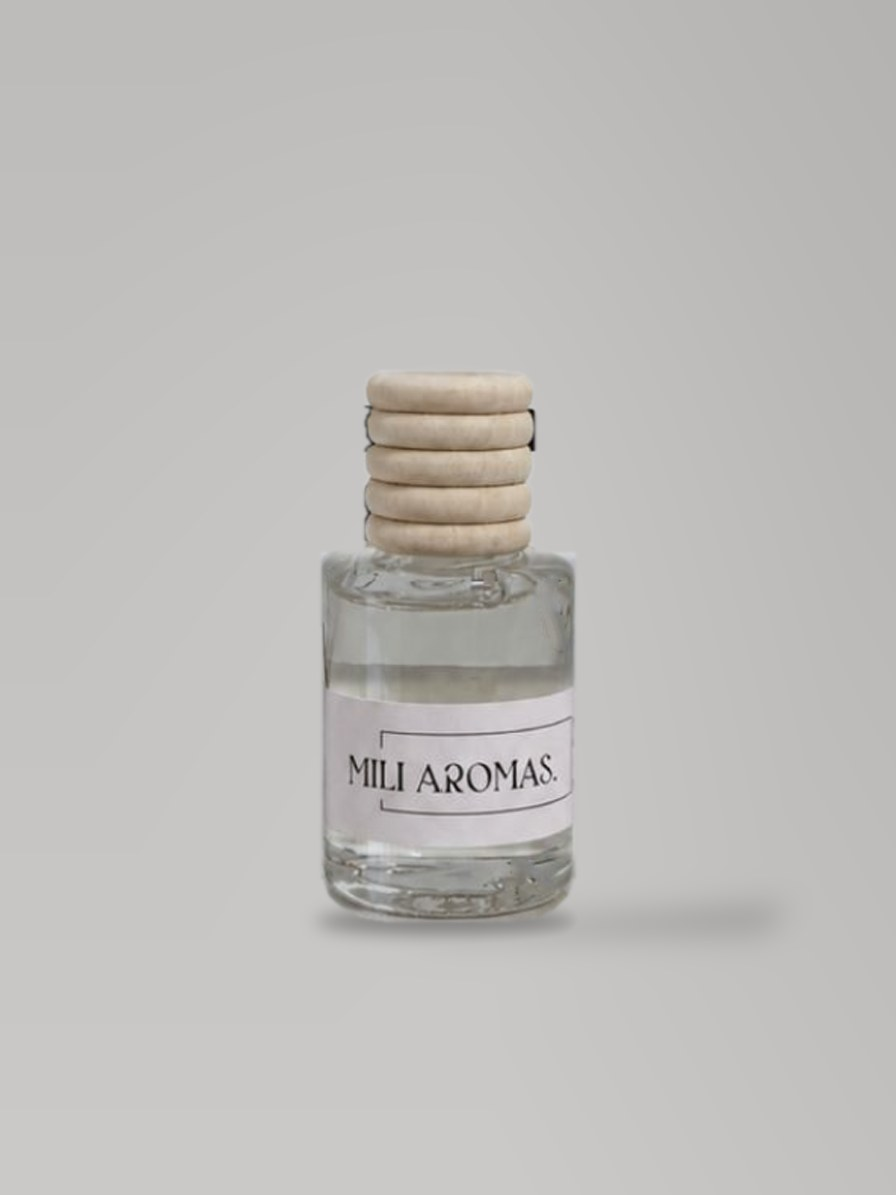
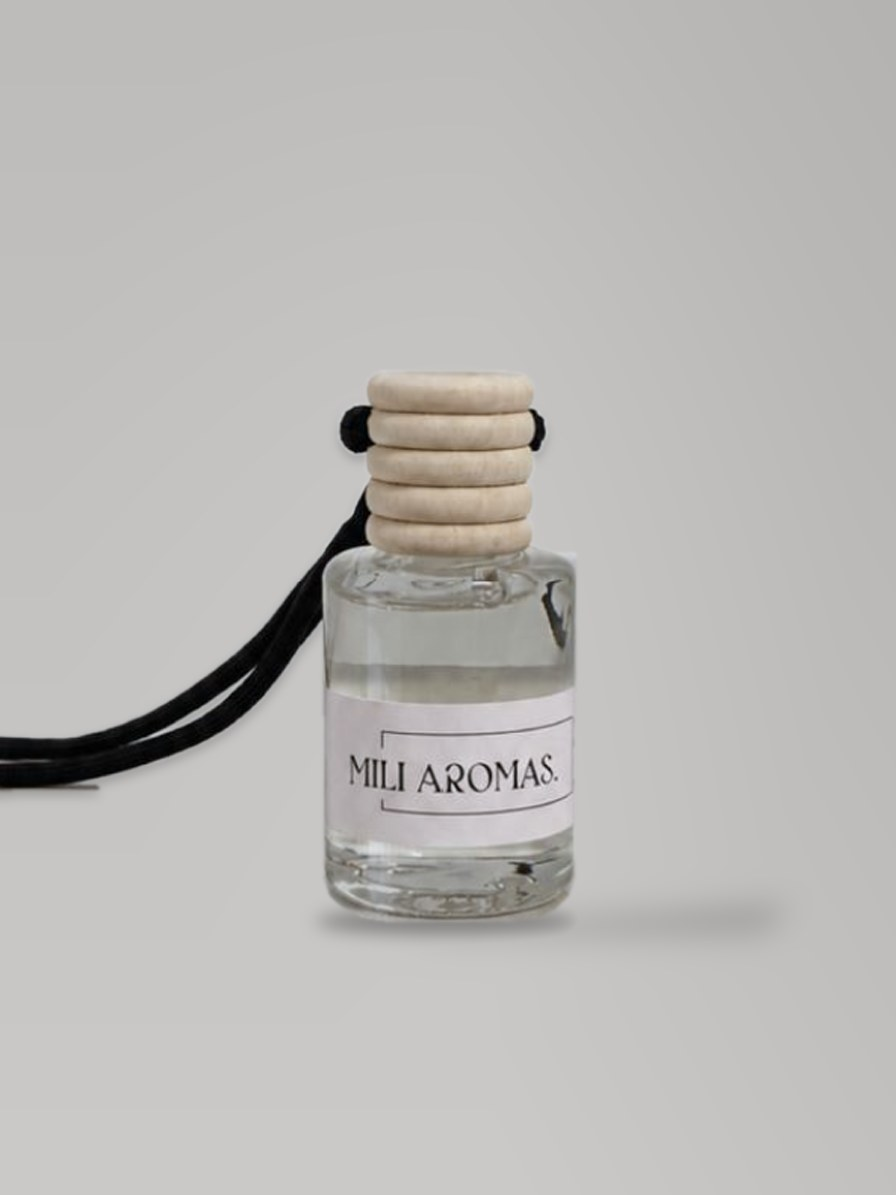
Cordón en la foto del auto y encuadre del spray
- La foto del difusor para auto vuelve a mostrar el cordón para colgar
- Encuadre por producto: el spray ya no corta el gatillo en celular y el
  auto muestra el cordón en escritorio

diff --git a/index.html b/index.html
@@ -957,6 +957,7 @@
                 name: "Perfume ambiental 250ml",
                 price: 6500,
                 image: "images/perfume_250.jpg?v=2",
+                focus: "50% 30%", // el gatillo queda alto: subir el encuadre para no cortarlo
                 alt: "Spray aromatizante de 250 ml",
                 aromas: ["Melón wan", "Citrus", "Rosa jazmín", "Naranja pimienta", "Coniglio", "Vainilla azúcar", "Vivex", "Limón bamboo", "Lemongrass", "Nagchampa", "Limón albahaca"]
             },
@@ -964,8 +965,9 @@
                 id: 4,
                 name: "Difusor auto",
                 price: 3500,
-                image: "images/difusor_auto.jpg?v=1",
-                alt: "Difusor para auto con tapa de madera y etiqueta de Mili Aromas",
+                image: "images/difusor_auto.jpg?v=2",
+                focus: "40% 62%", // encuadre corrido para que se vea el cordón
+                alt: "Difusor para auto con tapa de madera, cordón para colgar y etiqueta de Mili Aromas",
                 aromas: ["Wanama", "Citrus", "Pepino melón", "Love"]
             }
         ];
@@ -1008,7 +1010,7 @@
 
         /* ─── Productos ──────────────────────────────────────────────── */
         const mediaHTML = (p) => p.image
-            ? `<img src="${p.image}" alt="${p.alt}" width="768" height="1024" loading="lazy" decoding="async">`
+            ? `<img src="${p.image}" alt="${p.alt}" width="768" height="1024" loading="lazy" decoding="async"${p.focus ? ` style="object-position:${p.focus}"` : ""}>`
             : `<div class="placeholder" role="img" aria-label="Foto del ${p.name} próximamente">
                    <div class="placeholder-label"><div class="placeholder-inner">
                        <b>Mili Aromas.</b><span>Foto<br>próximamente</span>
